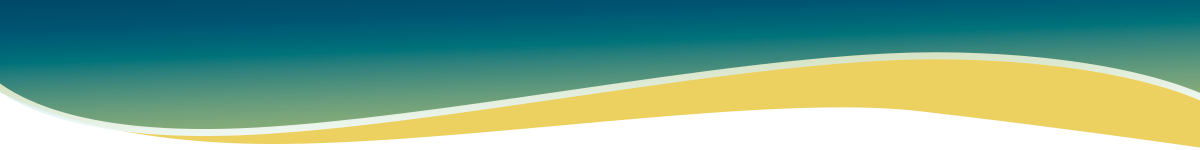
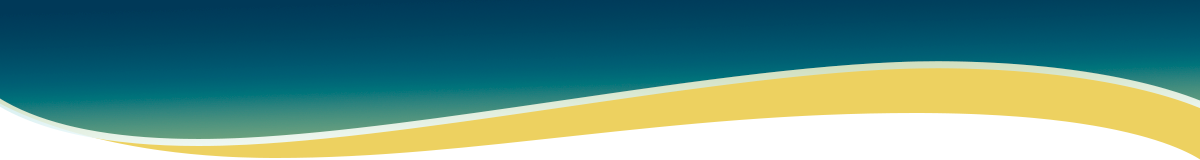
Half index

diff --git a/public/index.css b/public/index.css
@@ -19,7 +19,31 @@ body {
   height: 100%;
 }
 
+.presentation {
+  position: relative;
+}
+.presentation-content {
+  background-color: rgba(255, 255, 255, 0.75);
+  font-family: var(--Radio);
+  border-radius: 20px;
+  position: absolute;
+  padding: 1em;
+  color: #173657;
+  height: fit-content;
+  margin: 0 auto;
+  left: 0;
+  right: 0;
+  top: 100px;
+  width: 95%;
+}
+.presentation-content h3 {
+  font-size: 1.2em;
+}
+.presentation-content p {
+  font-size: .9em;
+}
 .contenedor-video{
+  width: 100vw;
   max-width: 100%;
   overflow-x: hidden;
 }
@@ -27,17 +51,15 @@ body {
   width: 100%;
 }
 .beach-menu {
-  background-image: url("../media/beach1200.png");
+  background-image: url("../media/sandBanner576.png");
   background-position: top ;
   background-size: cover;
-  height: 150px;
+  height: 100px;
   position: sticky;
   top: 0px;
   width: 100%;
 }
-.relleno {
-  height: 2000px;
-}
+
 #index-header {
   position: fixed;
   width: 100%;
@@ -60,23 +82,32 @@ body {
 }
 
 #index-header {
-  background-image: url("../media/header576.png");
+  background-image: url("../media/indexHeader576.png");
   background-position: top ;
   background-size: cover;
   height: 100px;
 }
 
-#beach-footer {
-  background-image: url("../media/footer576.png");
-  background-position: top ;
-  background-size: cover;
-  height: 100px;
-}
 /* Small devices (landscape phones, 576px and up) */
 @media (min-width: 576px) {
   #index-header {
-    background-image: url("../media/header768.png");
-    height: 100px;
+    background-image: url("../media/indexHeader768.png");
+    height: 120px;
+  }
+  .beach-menu {
+    background-image: url("../media/sandBanner768.png");
+    height: 120px;
+  }
+  .presentation-content {
+    padding: 1em;
+    top: 120px;
+    width: 90%;
+  }
+  .presentation-content h3 {
+    font-size: 1.5em;
+  }
+  .presentation-content p {
+    font-size: 1em;
   }
 }
 
@@ -84,10 +115,24 @@ body {
 /* Medium devices (tablets, 768px and up) */
 @media (min-width: 768px) {
   #index-header {
-    background-image: url("../media/header992.png");
-    height: 150px;
+    background-image: url("../media/indexHeader992.png");
+    height: 140px;
   }
-  
+  .beach-menu {
+    background-image: url("../media/sandBanner992.png");
+    height: 140px;
+  }
+  .presentation-content {
+    padding: 1.2em;
+    top: 160px;
+    max-width: 80%;
+  }
+  .presentation-content h3 {
+    font-size: 2em;
+  }
+  .presentation-content p {
+    font-size: 1.2em;
+  }
 }
 
 /* Large devices (desktops, 992px and up) */
@@ -96,22 +141,65 @@ body {
     background-image: url("../media/indexHeader1200.png");
     height: 150px;
   }
-
-  
+  .beach-menu {
+    background-image: url("../media/sandBanner1200.png");
+    height: 150px;
+  }
+  .presentation-content {
+    padding: 1.2em;
+    top: 180px;
+    max-width: 80%;
+  }
+  .presentation-content h3 {
+    font-size: 2em;
+  }
+  .presentation-content p {
+    font-size: 1.4em;
+  }
 }
 
 /* X-Large devices (large desktops, 1200px and up) */
 @media (min-width: 1200px) {
   #index-header {
-    background-image: url("../media/header1400.png");
+    background-image: url("../media/indexHeader1400.png");
     height: 160px;
+  }
+  .beach-menu {
+    background-image: url("../media/sandBanner1400.png");
+    height: 180px;
+  }
+  .presentation-content {
+    padding: 2em;
+    top: 200px;
+    max-width: 60%;
+  }
+  .presentation-content h3 {
+    font-size: 2em;
+  }
+  .presentation-content p {
+    font-size: 1.4em;
   }
 }
 
 /* XX-Large devices (larger desktops, 1400px and up) */
 @media (min-width: 1400px) {
   #index-header {
-    background-image: url("../media/header1600.png");
+    background-image: url("../media/indexHeader1600.png");
     height: 200px;
+  }
+  .beach-menu {
+    background-image: url("../media/sandBanner1600.png");
+    height: 200px;
+  }
+  .presentation-content {
+    padding: 2em;
+    top: 240px;
+    max-width: 50%;
+  }
+  .presentation-content h3 {
+    font-size: 2.2em;
+  }
+  .presentation-content p {
+    font-size: 1.4em;
   }
 }

diff --git a/public/templates.css b/public/templates.css
@@ -111,6 +111,10 @@ main {
 @media (min-width: 576px) {
   #beach-header {
     background-image: url("../media/header768.png");
+    height: 120px;
+  }
+  #beach-footer {
+    background-image: url("../media/footer768.png");
     height: 100px;
   }
 
@@ -127,6 +131,10 @@ main {
 @media (min-width: 768px) {
   #beach-header {
     background-image: url("../media/header992.png");
+    height: 140px;
+  }
+  #beach-footer {
+    background-image: url("../media/footer992.png");
     height: 150px;
   }
   .burguerFlex {
@@ -178,6 +186,10 @@ main {
     background-image: url("../media/header1200.png");
     height: 150px;
   }
+  #beach-footer {
+    background-image: url("../media/footer1200.png");
+    height: 150px;
+  }
 
   .desk-nav a {
     font-size: 1.5em;
@@ -197,12 +209,20 @@ main {
     background-image: url("../media/header1400.png");
     height: 160px;
   }
+  #beach-footer {
+    background-image: url("../media/footer768.png");
+    height: 160px;
+  }
 }
 
 /* XX-Large devices (larger desktops, 1400px and up) */
 @media (min-width: 1400px) {
   #beach-header {
     background-image: url("../media/header1600.png");
+    height: 200px;
+  }
+  #beach-footer {
+    background-image: url("../media/footer768.png");
     height: 200px;
   }
 }

diff --git a/public/index.html b/public/index.html
@@ -67,13 +67,16 @@
           <source src="../media/fishCircle.mp4" type="video/mp4">
         </video>
       </div>
+
+      <div class="presentation-content">
+        <h3>Sabias que liberar a tu mascota en el océano puede causar un desastre en ecológico?</h3>
+        <p>Somos una organización que te puede asistir a encontrarle un hogar adecuado a todo tipo de fauna acuática</p>
+      </div>
     </section>
     <div class="beach-menu">
 
     </div>
-    <div class="relleno">
-      
-    </div>
+    
   </main>
 
   <footer id="beach-footer"></footer>
